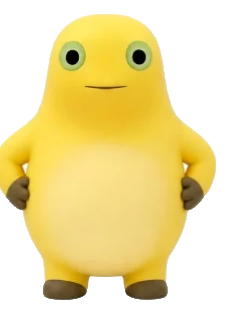
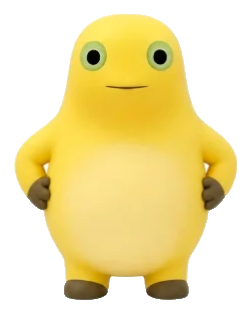
widen baby crops and lighten classic idle

diff --git a/DEVELOPMENT.md b/DEVELOPMENT.md
@@ -125,7 +125,7 @@ CyberNaiwa/
 - 原色赛博帧在 `naiwa-frames.json` / `naiwa-baby-frames.json`：112 列 × 70 行；量子赛博帧在 `naiwa-cyber-frames.json` / `naiwa-cyber-baby-frames.json`：128 列 × 80 行。用 `.` 表示透明格。帧由官方设计资料库的成年 / 幼体 / 大笑 / 挥手参考图逐像素映射到字符 tone；仓库不包含参考图片本身。
 - 幼体挥手源图裁切框从 `X=365/W=270` 改为 `X=310/W=285`：原框正好从 V 字手中间切过，导致手指缺失；新框完整包住中间幼体的抬手，112×70 与 128×80 两套网格都已重新采样。
 - `PetAnimation` 根据 `settings.palette` 选择帧组：`original` 走 `frames` / `babyFrames`，`cyber` 走 `cyberFrames` / `cyberBabyFrames`，`classic` 直接切到图片皮肤 `naiwa-classic`。ASCII JSON 仍只有 5 个基础动作的帧；`index.ts` 把 run/look/think/clap/eat/crouch 映射到最接近的现有姿态（run=walk、look/think=idle、clap=wave、eat=idle、crouch=wave），并让 HUD、语音、时长保持独立。幼体不使用新动作；左键动作栈永远不引用 happy/click。
-- 奶家经典图片皮肤：成年 idle 默认用**正面** `adult-idle-aligned.png`（官方正面站立，×1.09 亮度、×0.80 色彩对齐动作帧）；`classic/idle/00–05.png` 是 Nailong 的 3/4 侧身待机备选，会斜着站，不作为默认。wave/扎马步用 `adult-wave.png`，happy/click 用 `laugh-hd/000–024.webp`（524×720，90ms/帧，来自 1080×1474 原片 6.5–8.75s 抽 25 帧，去白底/地面阴影/胯下白块，3% padding，Lanczos 缩到 720 高，不锐化）；walk/run/look/think/clap/crouch 用 `classic/actions/<state>/` 的逐帧 PNG，`eat` 保留但不接入左键栈。动作帧统一补齐到 180×210 画布、底部对齐到 y=204（6px 底边距），所以脚和膝盖不会被裁。幼体 idle/walk、happy/click、wave 各用一张原画。`laugh/` 保留 180×180 的 MIT 原始帧，`laugh-cropped/` 是紧裁中间帧，`laugh-hires/` 是 648×888 的 6× 回退放大版；当前产品路径是 `laugh-hd`。
+- 奶家经典图片皮肤：成年 idle 默认用**正面** `adult-idle-aligned.png`（官方正面站立，×1.14 亮度、×0.78 色彩对齐动作帧）；`classic/idle/00–05.png` 是 Nailong 的 3/4 侧身待机备选，会斜着站，不作为默认。wave/扎马步用 `adult-wave.png`，happy/click 用 `laugh-hd/000–024.webp`（524×720，90ms/帧，来自 1080×1474 原片 6.5–8.75s 抽 25 帧，去白底/地面阴影/胯下白块，3% padding，Lanczos 缩到 720 高，不锐化）；walk/run/look/think/clap/crouch 用 `classic/actions/<state>/` 的逐帧 PNG，`eat` 保留但不接入左键栈。动作帧统一补齐到 180×210 画布、底部对齐到 y=204（6px 底边距），所以脚和膝盖不会被裁。幼体 idle/walk、happy/click、wave 各用一张原画。`laugh/` 保留 180×180 的 MIT 原始帧，`laugh-cropped/` 是紧裁中间帧，`laugh-hires/` 是 648×888 的 6× 回退放大版；当前产品路径是 `laugh-hd`。
 - HUD 渲染规则：`Pet.tsx` 只在 `settings.palette !== "classic"` 时渲染 `NAIWA//STATE`；原色赛博用暖黄 `rgba(255,216,77,0.62)` + 黄点，量子赛博沿用蓝色 `rgba(126,249,255,0.6)` + 青点，奶家经典不渲染 HUD。设置页不再有「桌宠标签」开关，`hudEnabled` 从 `PetSettings` 移除。
 - 图片尺寸用 `height: 78vh; width: auto`，不是 `max-height`：原图小于窗口时也会放大。图片底部对齐 stage 内容底边，保留 22px 底部 padding；成年待机和动作的角色高约 280px，47 张动作帧的 alpha 最外像素距画布边缘至少 6px，映射到窗口后脚底距底边约 30px。
 - 奶家经典每个动作的帧间隔由 `frameIntervalMsByState` 控制；happy/click 仍用全局 `frameIntervalMs: 90`。
@@ -274,5 +274,6 @@ cargo check --manifest-path src-tauri/Cargo.toml
 - 2026-11-16 add an always-visible top-right gear button for Settings (middle-click still works and is explained as pressing the scroll wheel), and fix the ASCII action aliases so clap/eat never reuse the laugh frames; the left-click stack now only uses wave/idle/walk poses and right-click remains the sole laugh trigger.
 - 2026-11-16 brighten the classic standing artwork (`adult-idle-aligned.png`, ×1.09 brightness / ×0.80 colour) to match the action frames, remove the persisted HUD toggle and the settings row, and derive HUD visibility/colour from the palette: Original warm yellow, Quantum blue, Classic hidden.
 - 2026-11-16 replace the classic adult standing pose with the six Nailong-Studio MIT idle frames (`classic/idle/00–05.png`, 180×210, 6px bottom) so its colour/art style matches walk/run; make the settings gear appear only while hovering the pet; remove the white crotch gap from all 25 high-res laugh frames; drop `eat` from the left-click stack because its head-back open mouth reads as a laugh.
-- 2026-11-16 restore the front-facing official standing art (`adult-idle-aligned.png`) as the default classic idle after the 3/4 Nailong idle looked diagonal; keep `classic/idle/00–05.png` as an alternate only. The front pose keeps the ×1.09 brightness / ×0.80 colour alignment, and the leg/feet bounds are unchanged.
+- 2026-11-16 restore the front-facing official standing art (`adult-idle-aligned.png`) as the default classic idle after the 3/4 Nailong idle looked diagonal; keep `classic/idle/00–05.png` as an alternate only. The front pose now uses ×1.14 brightness / ×0.78 colour, and the leg/feet bounds are unchanged.
+- 2026-11-16 audit hands/feet/knees across all classic assets: baby idle/happy were sliced at the source crop (alpha margin 0–1 px). Re-cropped all three baby poses from the official juvenile sheet with wider source regions and a 14 px inner margin; output sizes 239×315 / 259×314 / 251×314. Adult actions keep 6 px canvas margins and the 25 laugh frames keep 18 px; the ASCII grids are fully visible even when a baby frame touches its own grid edge.
 - 2026-11-16 bump to 0.2.1 and replace `docs/settings.png` with the 赛博奶蛙 settings screenshot (原色模式/量子模式, no sleep copy, version 0.2.1).

diff --git a/README.en.md b/README.en.md
@@ -139,7 +139,7 @@ Two keys live in that file: `settings` (always-on-top, scale, animation, sound, 
 
 The default `cyber-naiwa` skin stores Original Cyber adult/baby frames in `naiwa-frames.json` and `naiwa-baby-frames.json` (112×70), and Quantum Cyber adult/baby frames in `naiwa-cyber-frames.json` and `naiwa-cyber-baby-frames.json` (128×80). Each set covers five base poses; adult happy/click use 25 frames each, other base states use two, and the baby uses two per state. The extra adult actions (run/look/think/clap/eat/crouch) are registered in `index.ts` as aliases of the closest base pose, with their own HUD labels, timing and durations. `frames.ts` maps characters to colour tones and declares frame timing. The 25 adult laugh frames come from [liaosongjie/Codex-Voice-Input](https://github.com/liaosongjie/Codex-Voice-Input)'s MIT animation frames (fixed-crop conversion to ASCII); the other grids were pixel-mapped from the official design database's adult, juvenile, laugh, and wave references. No ASCII reference image files themselves are shipped in the repo. The app icon is taken from the baby's Original Cyber ASCII idle frame instead of being drawn separately.
 
-The `naiwa-classic` skin lives in `src/assets/pets/classic/`: adult idle defaults to the **front-facing** `adult-idle-aligned.png` (official front standing art, ×1.09 brightness and ×0.80 colour to match the action frames' luminance/saturation), with the legs and feet fully inside the window. The Nailong `classic/idle/00–05.png` frames are a 3/4 side-facing alternative and are not the default standing pose. Adult wave and all three baby states are transparent cut-outs of the official design reference sheets; adult happy/click uses `classic/laugh-hd/000–024.webp`, extracted from the 1080×1474 `naiwa-laugh.mp4` at 6.5–8.75 s. The 25 frames have their white background, floor shadow, and white crotch gap removed, keep 3% padding, and are Lanczos-downscaled to 524×720 with no sharpening at 90 ms each. `classic/laugh/` keeps the original 180×180 MIT frames and `classic/laugh-hires/` keeps the 648×888 6× upscale fallback. The video source has no explicit redistribution licence in `SOURCES.md`; the project owner approved its fan-use inclusion, and the skin can switch back to `laugh-hires` if needed. Action frames use `classic/actions/<action>/` padded to 180×210 with a 6 px bottom margin; the eating frames stay in the library but are not wired to left-click because the open-mouth pose reads as a laugh. Images scale to the window height so the body stays about 280 px and the feet stay visible. The cut-out/upscale scripts are `_qa/make-classic-cutouts.ps1`, `_qa/crop-classic-laugh.ps1`, `_qa/upscale-classic-laugh.py`, `_qa/build-hd-laugh.py`, `_qa/build-classic-actions.py`, and `_qa/build-classic-idle.py` (`_qa/` is not committed). This is fan-made, non-commercial use; source and licence notes are in `_qa/reference/official/laugh/SOURCES.md`.
+The `naiwa-classic` skin lives in `src/assets/pets/classic/`: adult idle defaults to the **front-facing** `adult-idle-aligned.png` (official front standing art, ×1.14 brightness and ×0.78 colour to match the action frames' luminance/saturation), with the legs and feet fully inside the window. The Nailong `classic/idle/00–05.png` frames are a 3/4 side-facing alternative and are not the default standing pose. Adult wave and all three baby states are transparent cut-outs of the official design reference sheets; the baby crops were widened so hands, feet, and knees keep a 14 px inner margin; adult happy/click uses `classic/laugh-hd/000–024.webp`, extracted from the 1080×1474 `naiwa-laugh.mp4` at 6.5–8.75 s. The 25 frames have their white background, floor shadow, and white crotch gap removed, keep 3% padding, and are Lanczos-downscaled to 524×720 with no sharpening at 90 ms each. `classic/laugh/` keeps the original 180×180 MIT frames and `classic/laugh-hires/` keeps the 648×888 6× upscale fallback. The video source has no explicit redistribution licence in `SOURCES.md`; the project owner approved its fan-use inclusion, and the skin can switch back to `laugh-hires` if needed. Action frames use `classic/actions/<action>/` padded to 180×210 with a 6 px bottom margin; the eating frames stay in the library but are not wired to left-click because the open-mouth pose reads as a laugh. Images scale to the window height so the body stays about 280 px and the feet stay visible. The cut-out/upscale scripts are `_qa/make-classic-cutouts.ps1`, `_qa/make-baby-cutouts.py`, `_qa/crop-classic-laugh.ps1`, `_qa/upscale-classic-laugh.py`, `_qa/build-hd-laugh.py`, `_qa/build-classic-actions.py`, and `_qa/build-classic-idle.py` (`_qa/` is not committed). This is fan-made, non-commercial use; source and licence notes are in `_qa/reference/official/laugh/SOURCES.md`.
 
 Want to try a PNG/WEBP/GIF skin? `src/assets/pets/README.md` shows how to register an `ImagePetSkin`. The renderer already handles both ASCII and image sequences. Please only add art you have the right to redistribute.
 

diff --git a/README.md b/README.md
@@ -139,7 +139,7 @@ pnpm tauri build --bundles dmg
 
 默认 ASCII 角色 `cyber-naiwa` 的原色赛博成年帧在 `src/assets/pets/cyber-naiwa/naiwa-frames.json`，幼体帧在 `naiwa-baby-frames.json`（112×70）；量子赛博成年/幼体帧在 `naiwa-cyber-frames.json`、`naiwa-cyber-baby-frames.json`（128×80）。现有帧覆盖 idle / walk / happy / click / wave；成年 happy/click 各 25 帧，其余状态每态 2 帧；幼体每态 2 帧。新增的 run / look / think / clap / eat / crouch 在 `src/assets/pets/index.ts` 复用最接近的现有 ASCII 姿态，但保留独立 HUD 标签、帧间隔和动作时长。字符 tone、帧间隔和渲染逻辑在 `frames.ts`。成年大笑的 25 帧来自 [liaosongjie/Codex-Voice-Input](https://github.com/liaosongjie/Codex-Voice-Input) 的 MIT 动画帧（固定取景后转成 ASCII）；其余帧由官方设计资料库中的成年 / 幼体 / 大笑 / 挥手参考图逐像素映射生成，ASCII 帧的参考图片本身不入库。应用图标取自幼体原色赛博 ASCII 待机帧，不再单独绘制。
 
-奶家经典皮肤 `naiwa-classic` 在 `src/assets/pets/classic/`：成年待机默认使用**正面** `adult-idle-aligned.png`（官方正面站立，×1.09 亮度、×0.80 色彩，向动作帧的明度/饱和度对齐），脚和腿完整落在窗口内。Nailong 的 `classic/idle/00–05.png` 是 3/4 侧身待机备选，画面会斜着站，所以不作为默认站立。成年挥手和幼体三态是官方设计参考图的透明抠图；成年 happy/click 使用 `classic/laugh-hd/000–024.webp`，从 1080×1474 的 `naiwa-laugh.mp4` 6.5–8.75 秒抽 25 帧，去掉白底、地面阴影和胯下白块，统一留 3% 边距后 Lanczos 缩到 524×720，不做锐化，90ms/帧。`classic/laugh/` 保留原始 180×180 MIT 帧，`classic/laugh-hires/` 保留 648×888 的 6× 放大回退版；视频源的再分发许可记录不完整，已按项目所有者确认作为粉丝二创使用，必要时可切回 `laugh-hires`。走、跑、张望、思考、鼓掌、蹲伏使用 `classic/actions/<action>/` 的逐帧原画，来自 Nailong-Studio 的 MIT 素材，统一补齐到 180×210 画布、底部留 6px，所以脚和膝盖不会被窗口裁掉；`进食` 帧保留在素材里，但因为张嘴仰头太像大笑，暂不接入左键动作栈。图片按窗口高度缩放，成年待机和动作的身体高度约 280px。抠图/放大/补帧脚本是 `_qa/make-classic-cutouts.ps1`、`_qa/crop-classic-laugh.ps1`、`_qa/upscale-classic-laugh.py`、`_qa/build-hd-laugh.py`、`_qa/build-classic-actions.py` 和 `_qa/build-classic-idle.py`（`_qa/` 不入库）。这部分是粉丝二创非商业使用，来源与授权说明见 `_qa/reference/official/laugh/SOURCES.md`。
+奶家经典皮肤 `naiwa-classic` 在 `src/assets/pets/classic/`：成年待机默认使用**正面** `adult-idle-aligned.png`（官方正面站立，×1.14 亮度、×0.78 色彩，向动作帧的明度/饱和度对齐），脚和腿完整落在窗口内。Nailong 的 `classic/idle/00–05.png` 是 3/4 侧身待机备选，画面会斜着站，所以不作为默认站立。成年挥手和幼体三态是官方设计参考图的透明抠图；幼体三态已重新放宽裁切，手、脚、膝盖都有 14px 内边距；成年 happy/click 使用 `classic/laugh-hd/000–024.webp`，从 1080×1474 的 `naiwa-laugh.mp4` 6.5–8.75 秒抽 25 帧，去掉白底、地面阴影和胯下白块，统一留 3% 边距后 Lanczos 缩到 524×720，不做锐化，90ms/帧。`classic/laugh/` 保留原始 180×180 MIT 帧，`classic/laugh-hires/` 保留 648×888 的 6× 放大回退版；视频源的再分发许可记录不完整，已按项目所有者确认作为粉丝二创使用，必要时可切回 `laugh-hires`。走、跑、张望、思考、鼓掌、蹲伏使用 `classic/actions/<action>/` 的逐帧原画，来自 Nailong-Studio 的 MIT 素材，统一补齐到 180×210 画布、底部留 6px，所以脚和膝盖不会被窗口裁掉；`进食` 帧保留在素材里，但因为张嘴仰头太像大笑，暂不接入左键动作栈。图片按窗口高度缩放，成年待机和动作的身体高度约 280px。抠图/放大/补帧脚本是 `_qa/make-classic-cutouts.ps1`、`_qa/make-baby-cutouts.py`、`_qa/crop-classic-laugh.ps1`、`_qa/upscale-classic-laugh.py`、`_qa/build-hd-laugh.py`、`_qa/build-classic-actions.py` 和 `_qa/build-classic-idle.py`（`_qa/` 不入库）。这部分是粉丝二创非商业使用，来源与授权说明见 `_qa/reference/official/laugh/SOURCES.md`。
 
 想换成 PNG/WEBP/GIF 皮肤时，按 `src/assets/pets/README.md` 的说明注册 `ImagePetSkin` 即可，渲染器同时支持 ASCII 和图片序列。请不要提交没有 redistribution 权限的素材。
 

diff --git a/design-qa.md b/design-qa.md
@@ -226,6 +226,14 @@
 - 恢复正面官方站立 `adult-idle-aligned.png` 为默认经典 idle（×1.09 亮度、×0.80 色彩，腿部/脚部完整）；Nailong 的 `classic/idle/00–05.png` 保留为 3/4 侧身备选，不再作为默认。
 - `docs/preview-classic.png` 改回正面站立，HUD 仍隐藏；`pnpm build` 通过。
 
+## 2026-11-16 — Phase 28：手/脚/膝盖完整性与站立再提亮
+
+- 用户要求彻底检查手、脚、膝盖被削掉的问题。79 个经典图片资产逐一跑 alpha bbox：`baby-happy` 最小边距 0px、`baby-idle` 1px；成人动作帧 6px；laugh 18px；成人正面 idle 14px。
+- 幼体三张从官方 `official-juvenile.png` 重新放宽裁切（idle X=50/W=310、wave X=290/W=320、happy X=560/W=330，Y=220/H=540），并保留 14px 内边距；输出 239×315 / 259×314 / 251×314，手、脚、膝盖完整。审计图 `_qa/art/baby-limb-audit.png`。
+- ASCII 四套 JSON 的网格边界也检查：成人最小 1–2 格，幼体 happy/click 有 0 格贴边，但 pre/transform 完整可见、未被窗口裁切，所以不改 ASCII 画稿。
+- 正面站立再提亮：从原始未调色版本按 ×1.14 亮度、×0.78 色彩重新生成 `adult-idle-aligned.png`，实测 mean lum 176.6 / sat 134.4（之前 170.9 / 137.4）；`docs/preview-classic.png` 已更新。
+- 设置齿轮仍为悬停显示；经典 HUD 隐藏。`pnpm build` 通过。
+
 ## 待人工确认
 
 - 托盘菜单的物理点击仍需在桌面通知区实际点一遍；窗口 show/hide/设置/退出逻辑已实现。

diff --git a/src/assets/pets/README.md b/src/assets/pets/README.md
@@ -22,11 +22,13 @@ duration still come from the real state, and the baby never uses these aliases.
 
 `naiwa-classic` is an `ImagePetSkin` using the cut-out original artwork in
 `classic/`: adult idle defaults to the front-facing
-`adult-idle-aligned.png` (the original tall front pose with ×1.09 brightness /
-×0.80 colour to match the action frames). `classic/idle/00`–`05.png` keeps the
+`adult-idle-aligned.png` (the original tall front pose with ×1.14 brightness /
+×0.78 colour to match the action frames). `classic/idle/00`–`05.png` keeps the
 Nailong 3/4 side-facing idle frames as an alternative, but they are not the
 default because the character stands diagonally. Wave and baby idle/happy/wave
-remain single cut-out PNGs. The
+remain single cut-out PNGs; the three baby images were re-cropped from the
+official juvenile sheet with a 14 px inner margin so hands, feet, and knees are
+not sliced. The
 adult happy/click sequence is `classic/laugh-hd/000`–`024.webp` at 90 ms per
 frame: 25 frames from the 1080×1474 `naiwa-laugh.mp4` at 6.5–8.75 s, with the
 white background, floor shadow, and white crotch gap removed, 3% padding and
